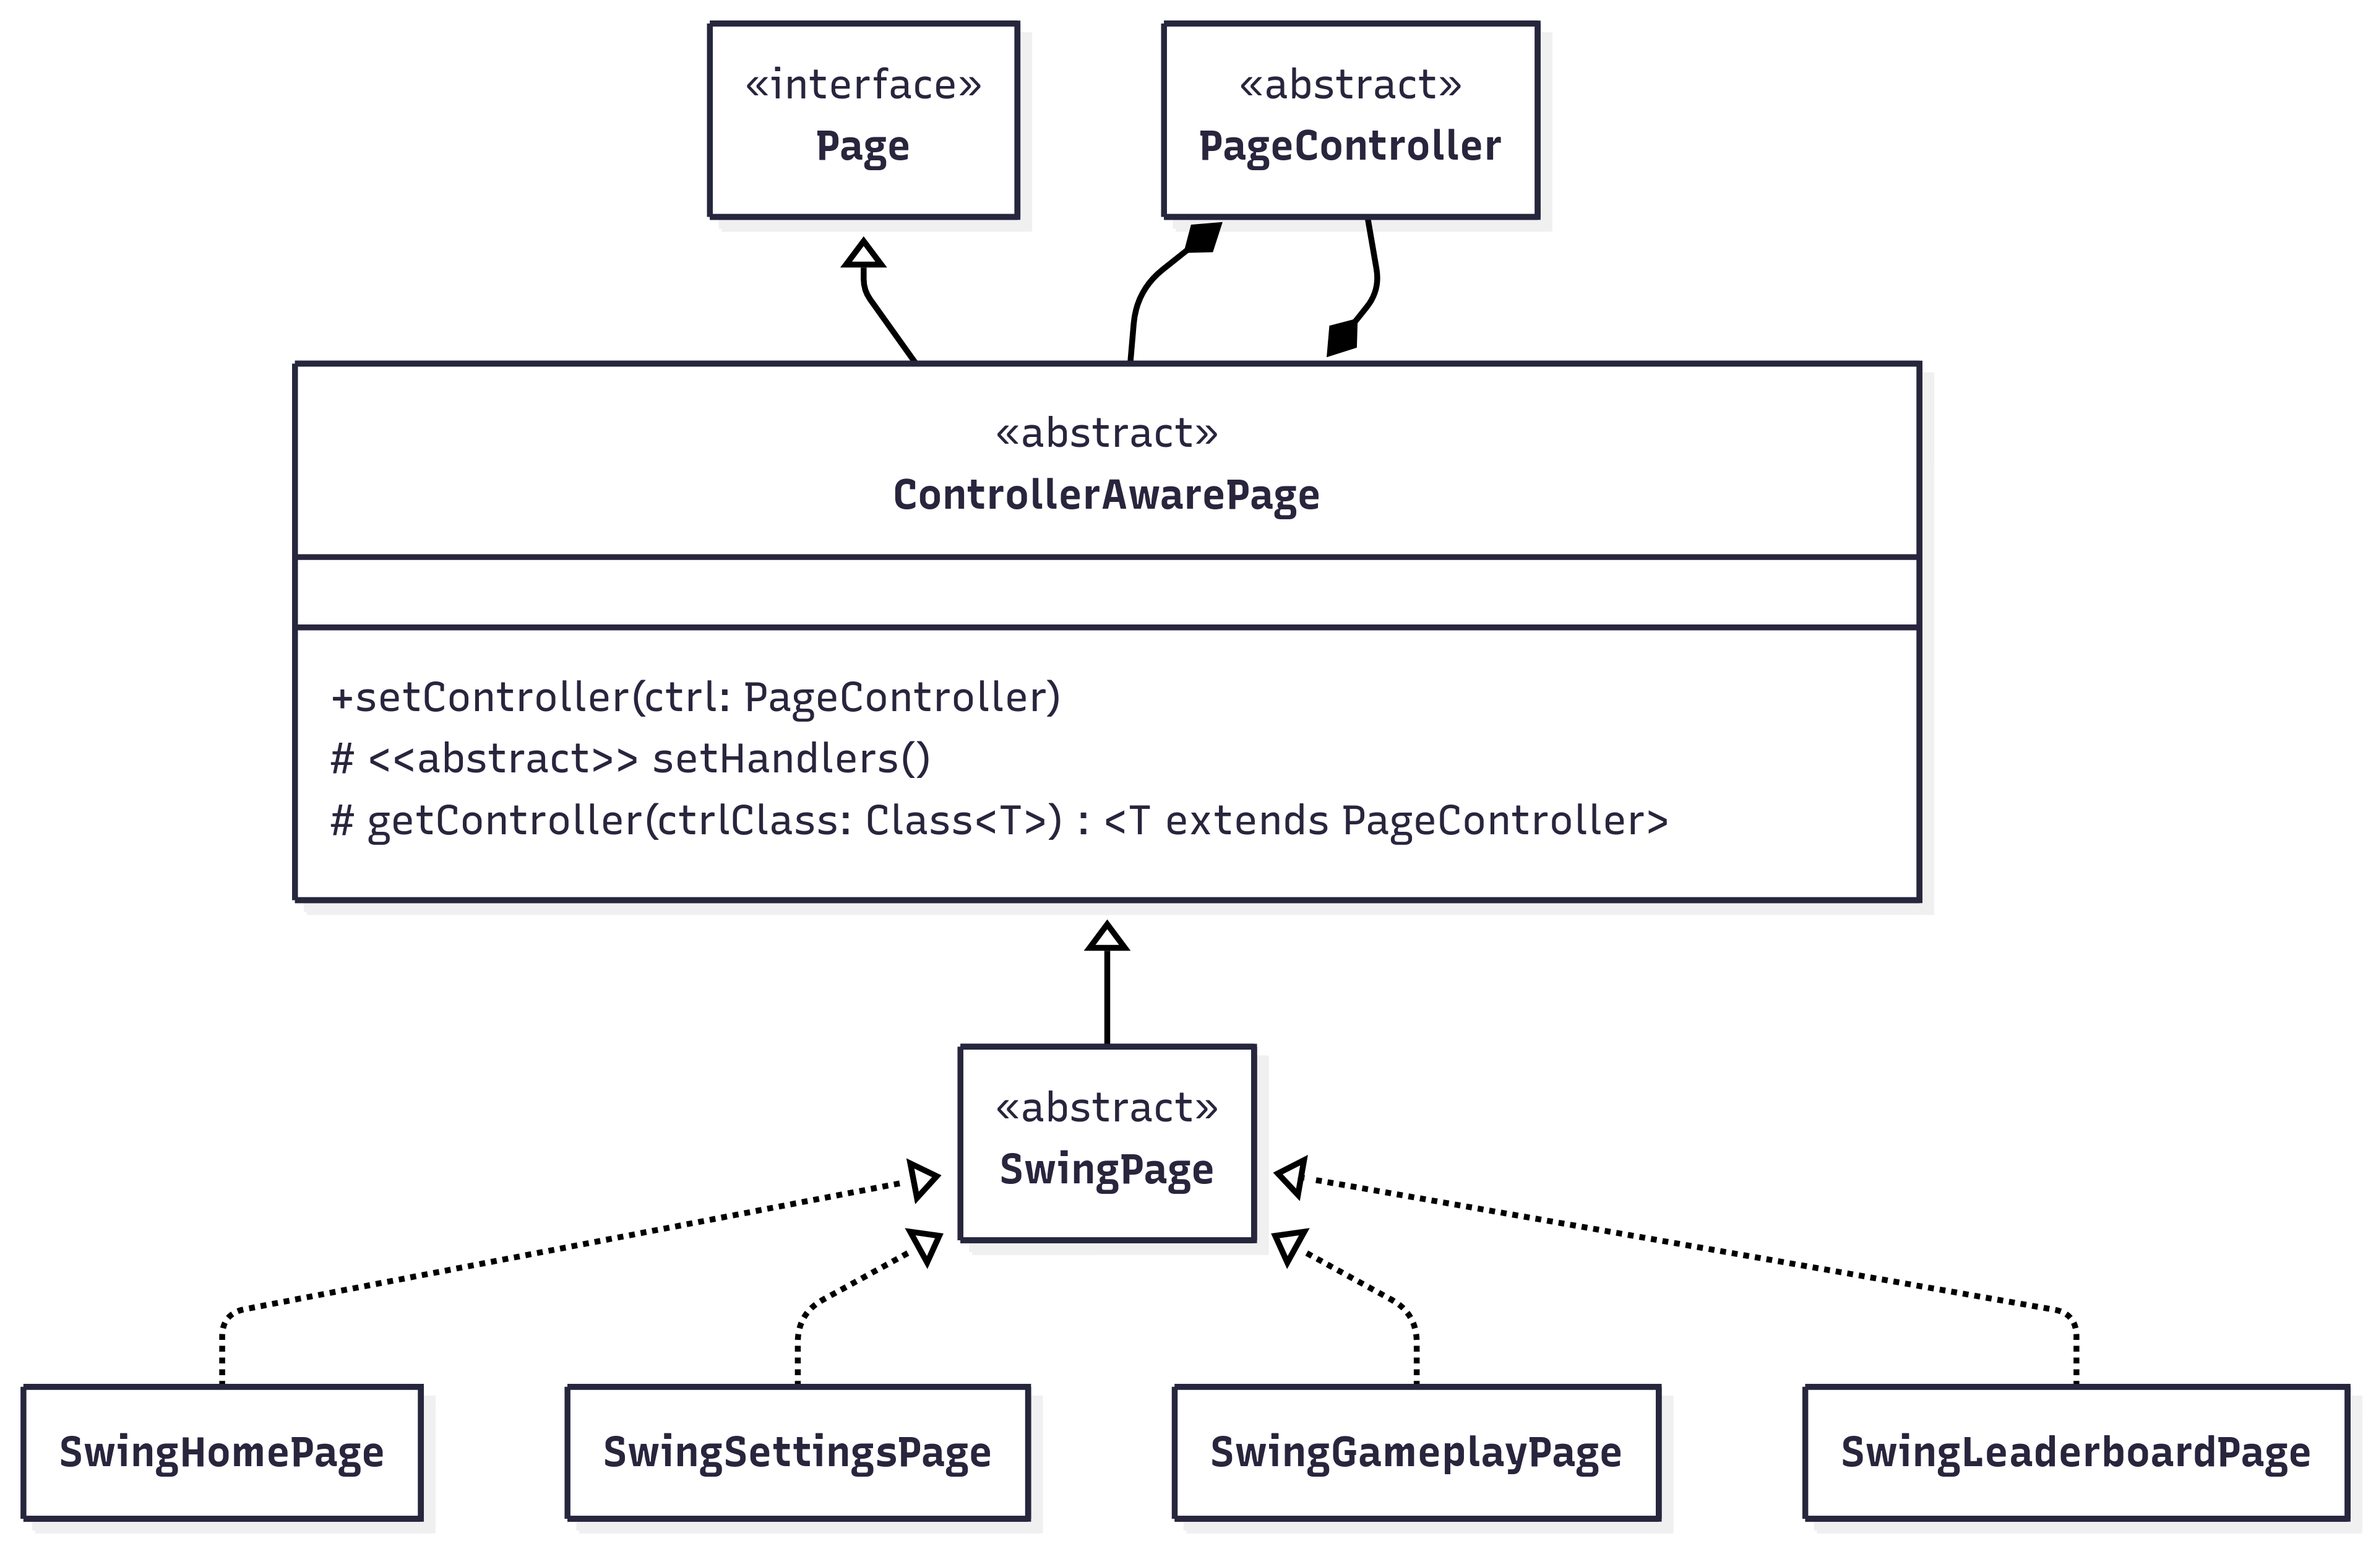
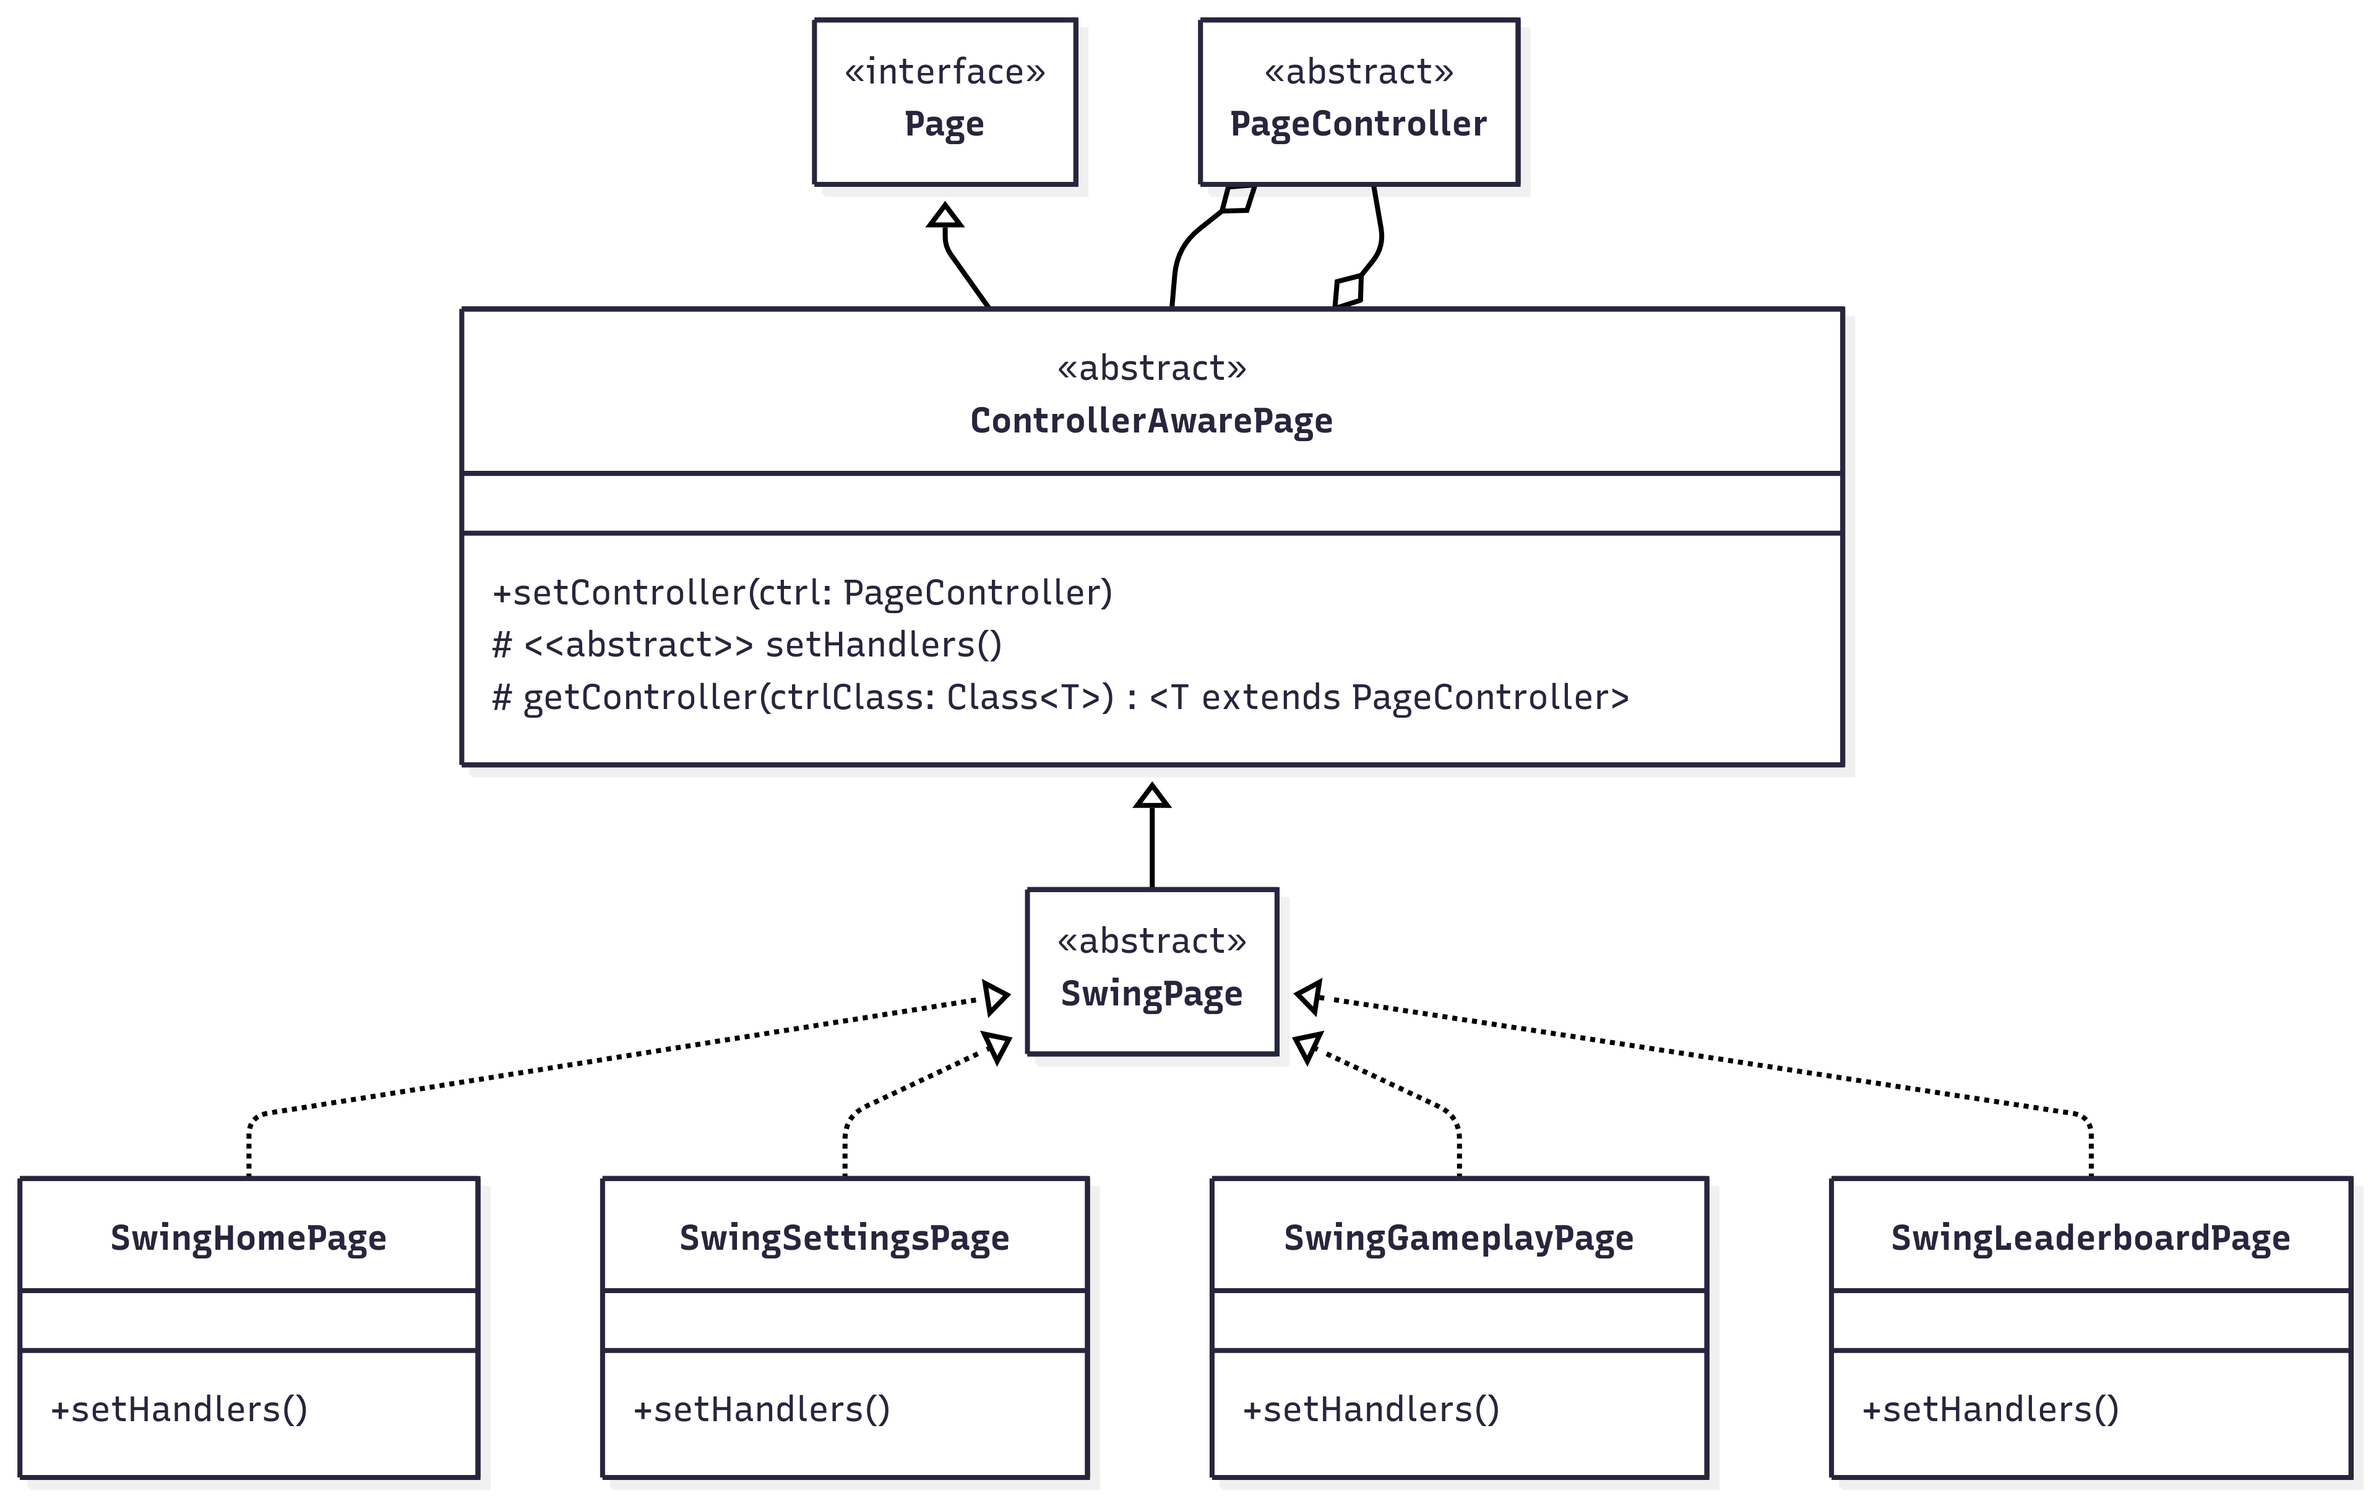
Added other entries in 'detailed design'

Changed region(s): [[0.0, 0.0, 0.8125, 0.9893], [0.7188, 0.7729, 1.0, 0.9893]]

diff --git a/13-template.tex b/13-template.tex
@@ -260,8 +260,8 @@ Entrambi vengono creati tramite \textit{Factory Method} e accoppiati in un
 \begin{figure}[H]   % H maiuscola
 \centering
 \includegraphics[width=\textwidth]{img/effects}
-\caption{Il diagramma mostra il pattern Strategy applicato a EndCondition e GemModifier, creati
-dalle rispettive Factory Method e composti in RoundEffectImpl. RoundImpl può utilizzare
+\caption{Il diagramma mostra come EndCondition e GemModifier rappresentino le stategie, creati
+dalle rispettive factory e composti in RoundEffectImpl. RoundImpl può utilizzare
 le due strategie in modo completamente interscambiabile.}
 \label{img:effects}
 \end{figure}
@@ -280,18 +280,20 @@ problema è l'utilizzo del pattern Decorator, il quale non viene utilizzato.
 
 \subsection*{Iterazione solo sui giocatori in esplorazione}
 \begin{description}
-	\item[\textbf{Problema}]: durante un round i giocatori possono uscire.
+	\item[\textbf{Problema}]: durante un round i giocatori possono decidere di uscire.
 	Serve un modo per poter passare al prossimo giocatore attivo, saltando
 	quelli che hanno abbandonato l'esplorazione della grotta.
 
 	\item[\textbf{Soluzione}]: Uso del pattern \textit{Iterator} da parte
 	dell'interfaccia \texttt{RoundPlayerManager} che estende \texttt{Iterator<Player>}
-	per ottenere con una sola chiamata il prossimo giocatore attivo ~\ref{img:playermanager}.
+	per ottenere con una sola chiamata il giocatore del prossimo turno ~\ref{img:playermanager}.
 
 	\begin{figure}[H]   % H maiuscola
 	\centering
 	\includegraphics[width=0.4\textwidth]{img/playermanager}
-	\caption{Il diagramma mostra il pattern Iterator applicato a RoundPlayerManager.}
+	\caption{Il diagramma mostra come RoundPlayerManager sia un iteratore di Player,
+	permettendo di ottenere il prossimo giocatore attivo e capire se ci sono
+	ancora giocatori in esplorazione.}
 	\label{img:playermanager}
 	\end{figure}
 
@@ -310,13 +312,15 @@ problema è l'utilizzo del pattern Decorator, il quale non viene utilizzato.
 	necessita di interagibilità ha bisogno che venga associata ad uno specifico \texttt{PageController}; 
 	gli handler degli eventi relativi ai componenti grafici delle pagine variano per ognuna di esse
 	e devono essere inizializzati solo quando lo specifico PageController viene assegnato alla pagina.
+	Serve un modo per impostare gli handler dei componenti grafici non appena viene scelto quale
+	PageController utilizzare sulla pagina.
 
 	\item[\textbf{Soluzione}]: tramite l'applicazione del pattern \textit{Template Method} la specializzazione 
 	astratta di Page che modella pagine interagibili, \texttt{ControllerAwarePage}, richiama il metodo astratto \texttt{setHandlers()}
 	nel momento in cui nella Page viene associato il proprio controller effettuando una chiamata al metodo
 	\texttt{setController(PageController)}.
 	In questo caso il metodo \texttt{setController(PageController)} costituisce il template method: esso associa
-	il controller ed imposta gli handler della visualizzazione senza preoccuparsi di come le pagine specifiche (le sue sottoclassi)
+	il controller ed imposta gli handler della visualizzazione senza preoccuparsi di come le pagine \texttt{ControllerAwarePage}
 	inizializzino questi ultimi. ~\ref{img:ctrl_bind}.
 
 	\begin{figure}[H]   % H maiuscola
@@ -325,7 +329,8 @@ problema è l'utilizzo del pattern Decorator, il quale non viene utilizzato.
 	\caption{Il diagramma mostra il pattern Template Method applicato a ControllerAwarePage, in cui
 	il metodo \texttt{setController(PageController)} fa da metodo template e \texttt{setHandlers()} da hook.
 	Nota: il metodo getController(class) viene utilizzato per evitare la propagazione dei generici a tutto
-	l'albero strutturale.}
+	l'albero strutturale: esso è un metodo utilizzabile dalle ControllerAwarePage che effettua un
+	cast sicuro alle specializzazioni di PageController.}
 	\label{img:ctrl_bind}
 	\end{figure}
 
@@ -336,12 +341,50 @@ problema è l'utilizzo del pattern Decorator, il quale non viene utilizzato.
 	pagina interagibile basta implementare \texttt{setHandlers()}.
 
 	\item[\textbf{Contro}]: con Template Method la struttura diventa rigida: se si volesse cambiare
-	un comportamento di \texttt{ControllerAwarePage} comporterebbe probabilmente duplicazione di codice.
-	un altra problematica è il fatto che una pagina interagibile deve forzatamente estendere
+	un comportamento di \texttt{ControllerAwarePage} comporterebbe probabile duplicazione di codice.
+	Un'altra problematica è il fatto che una pagina interagibile deve forzatamente estendere
 	\texttt{ControllerAwarePage}, bloccando la possibilità di estendere da altre classi 
 	(ad esempio, SwingPage avrebbe potuto estendere direttamente JPanel).
 \end{description}
 
+\subsection*{Centralizzazione della navigazione tra pagine}
+\begin{description}
+	\item[\textbf{Problema}]: essendo la natura dell'applicazione interattiva e multipagina,
+	occorre un modo per poter passare da una visualizzazione all'altra senza che un \texttt{PageController}
+	mantenga riferimenti a pagine su cui non deve gestire l'interazione (un PageController deve
+	gestire una ed una sola pagina).
+
+	\item[\textbf{Soluzione}]: si centralizza la logica di navigazione tra \texttt{Page}
+	all'interno di un navigatore: \texttt{PageNavigator}. Il navigatore si occupa di registrare
+	le pagine associandole ad una chiave (in questo caso l'enumerazione \texttt{PageId})
+	e cambiare la visualizzazione tramite quest'ultima. In questo modo PageController
+	non dovrà preoccuparsi di mantenere riferimenti a pagine su cui non deve gestire l'interazione. ~\ref{img:navigator}
+	Questo approccio non utilizza alcun design pattern.
+	\footnote{Questo approccio non rappresenta alcun OOP design pattern ma è un pattern architetturale
+	molto utilizzato in ambito mobile e web per la navigazione multipagina.}
+
+	\begin{figure}[H]   % H maiuscola
+	\centering
+	\includegraphics[width=0.5\textwidth]{img/navigator}
+	\caption{Il diagramma mostra come PageController gestisca una singola pagina
+	e come PageNavigator coordini la navigazione verso altre pagine.}
+	\label{img:navigator}
+	\end{figure}
+
+	\item[\textbf{Pro}]: tutta la logica del passaggio da una pagina all'altra
+	viene centralizzata in \texttt{PageNavigator}, riducendo la duplicazione di codice
+	e favorendo il riutilizzo. PageController non necessita di alcuna informazione
+	sulle altre pagine: gli basta conoscere la chiave associata. Si possono aggiungere
+	nuove pagine navigabili in modo facile: basta registrare una coppia
+	\texttt{(PageId, Page)}.
+
+	\item[\textbf{Contro}]: l'utilizzo di \texttt{PageId} come chiave
+	per navigare tra le pagine rende impossibile l'aggiunta di pagine create
+	in modo dinamico poichè PageId presenta un numero finito di chiavi associabili
+	(ad esempio, in futuro si potrebbe voler aggiungere pagine senza
+	struttura statica, create sul momento in base allo stato della partita).
+	
+\end{description}
 
 
 \chapter{Sviluppo}
